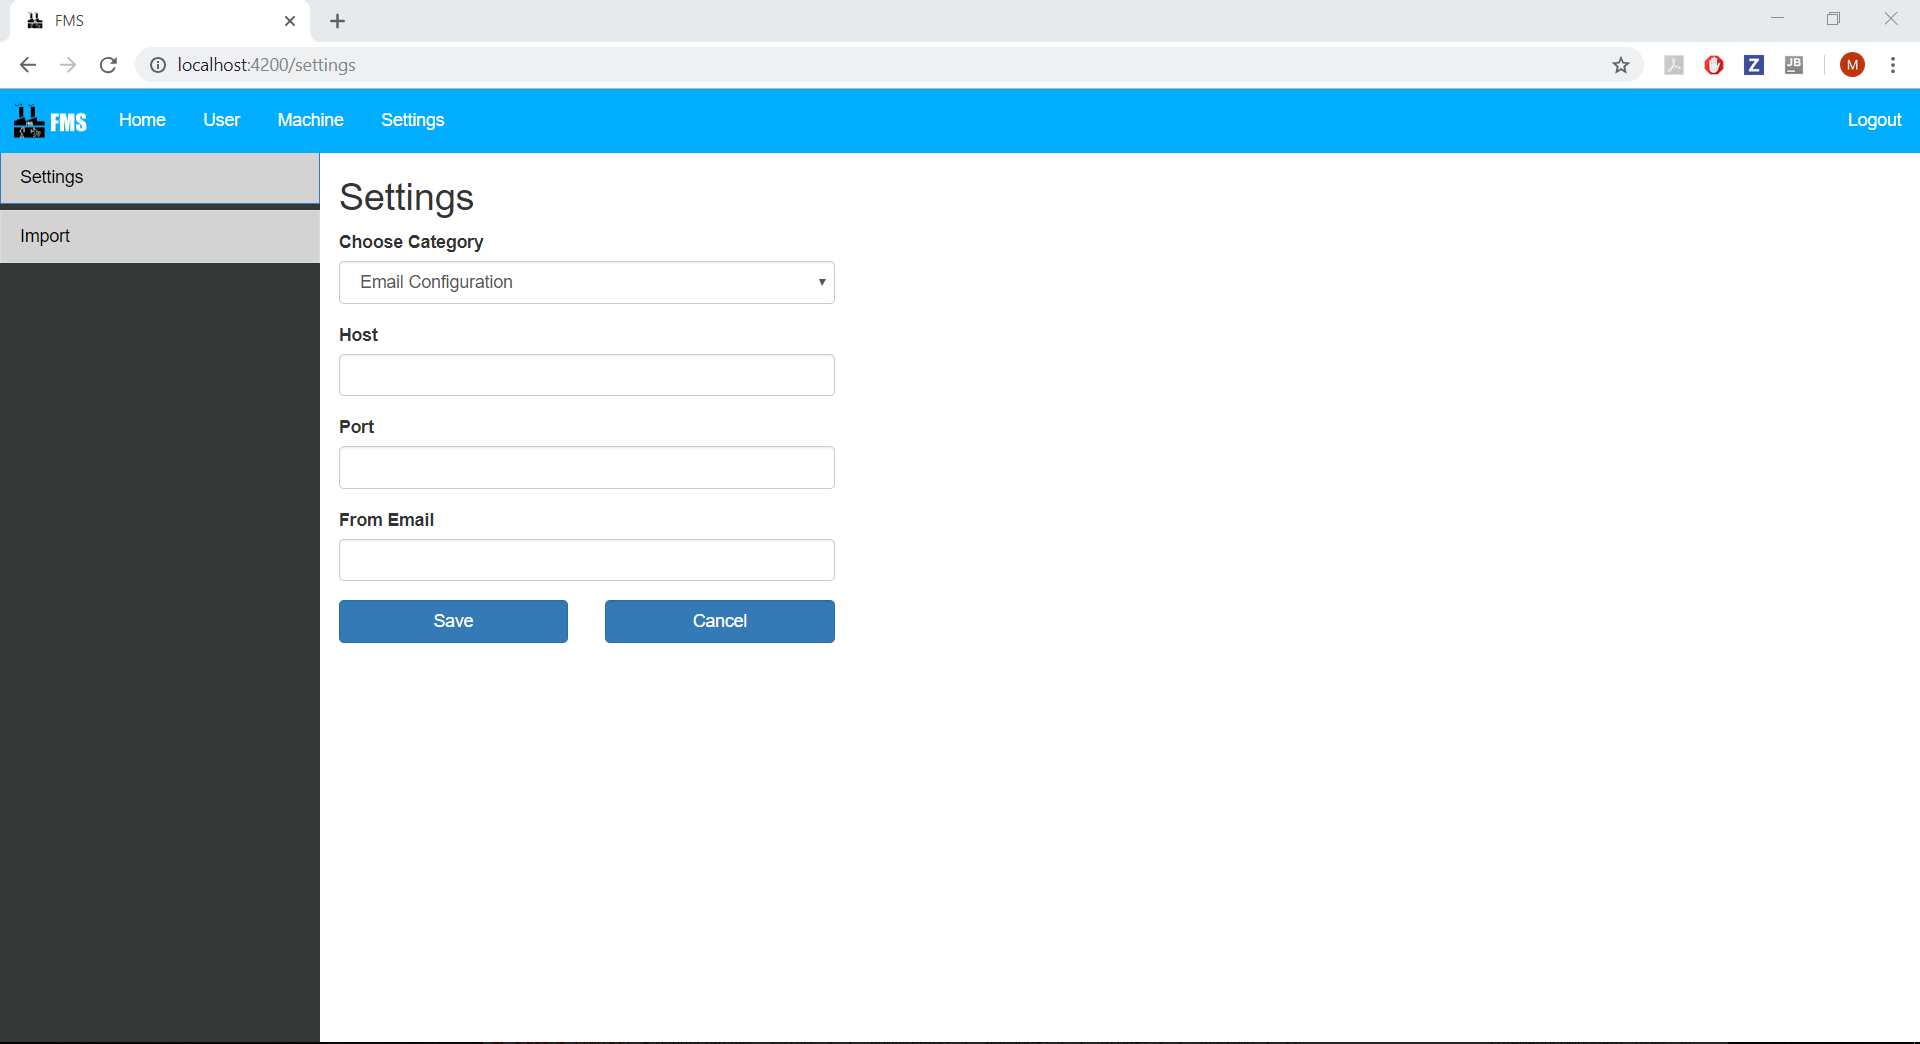
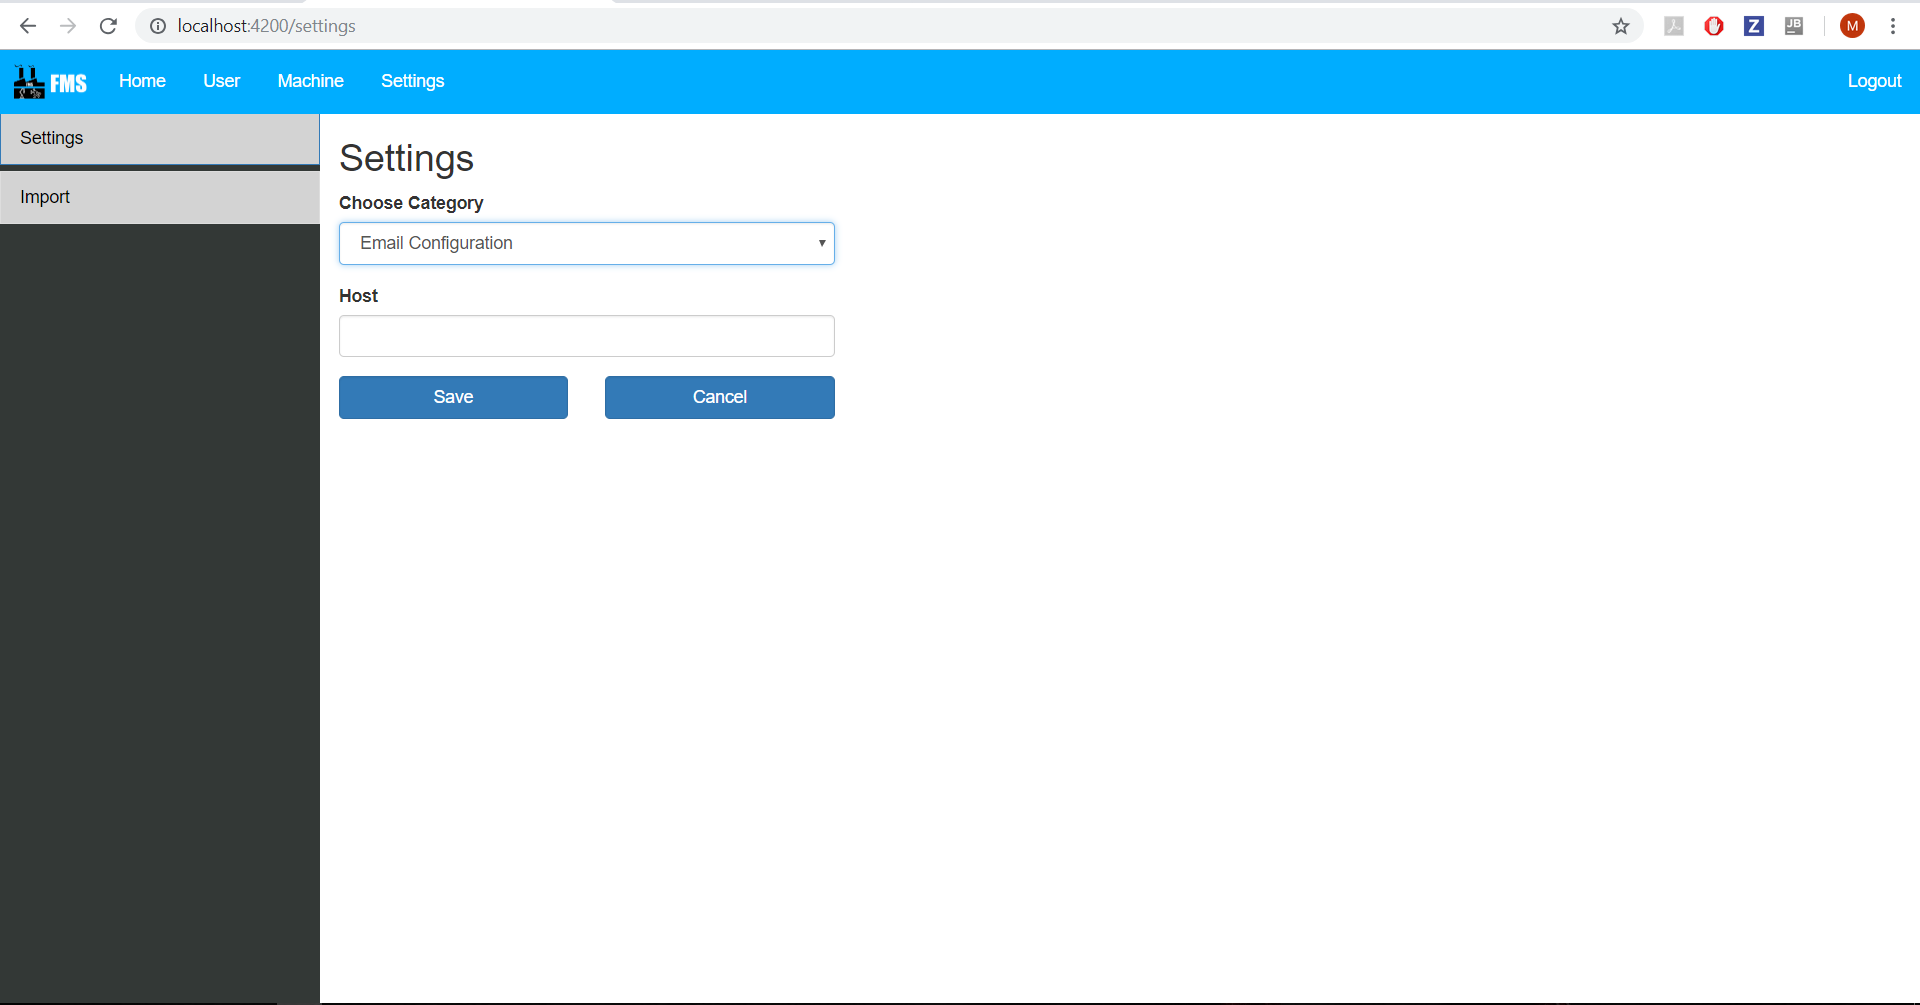
Added wireframe

diff --git a/Code/client/src/app/components/settings/settings/settings.component.html b/Code/client/src/app/components/settings/settings/settings.component.html
@@ -23,22 +23,6 @@
   </div>
 </div>
 <div class="row" *ngIf="category!==''">
-  <div class="col-sm-4">
-    <div class="form-group">
-      <label>Port</label>
-      <input type="text" class="form-control" />
-    </div>
-  </div>
-</div>
-<div class="row" *ngIf="category!==''">
-  <div class="col-sm-4">
-    <div class="form-group">
-      <label>From Email</label>
-      <input type="text" class="form-control" />
-    </div>
-  </div>
-</div>
-<div class="row" *ngIf="category!==''">
   <div class="col-sm-2">
     <button class="btn btn-primary form-control" type="button" (click)="save()">Save</button>
   </div>
